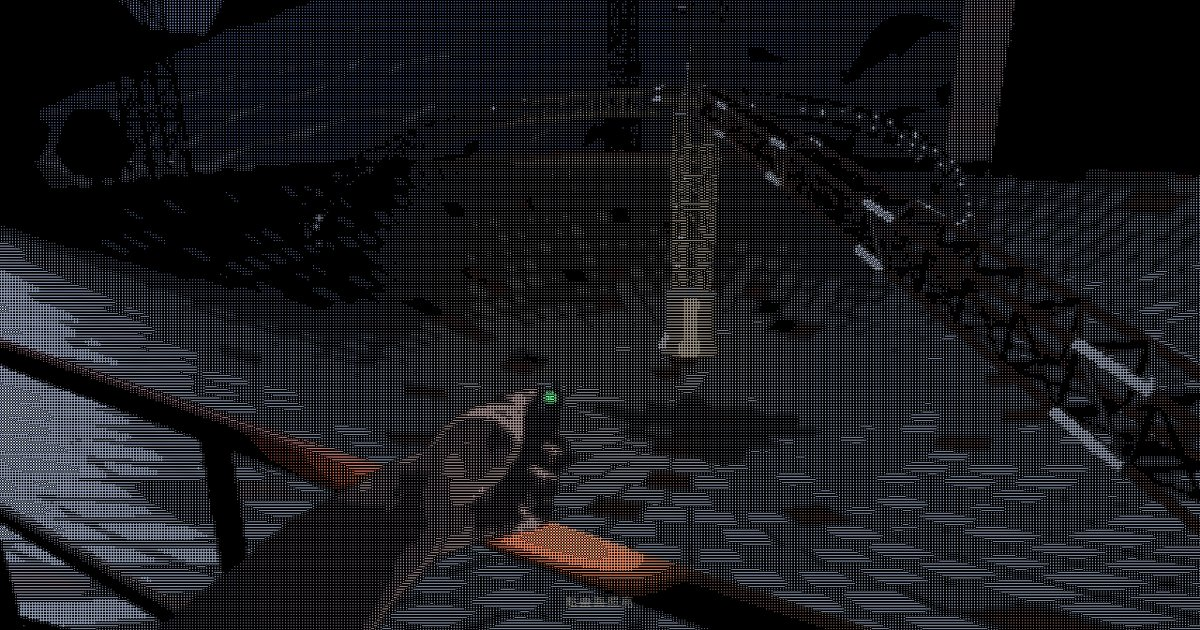
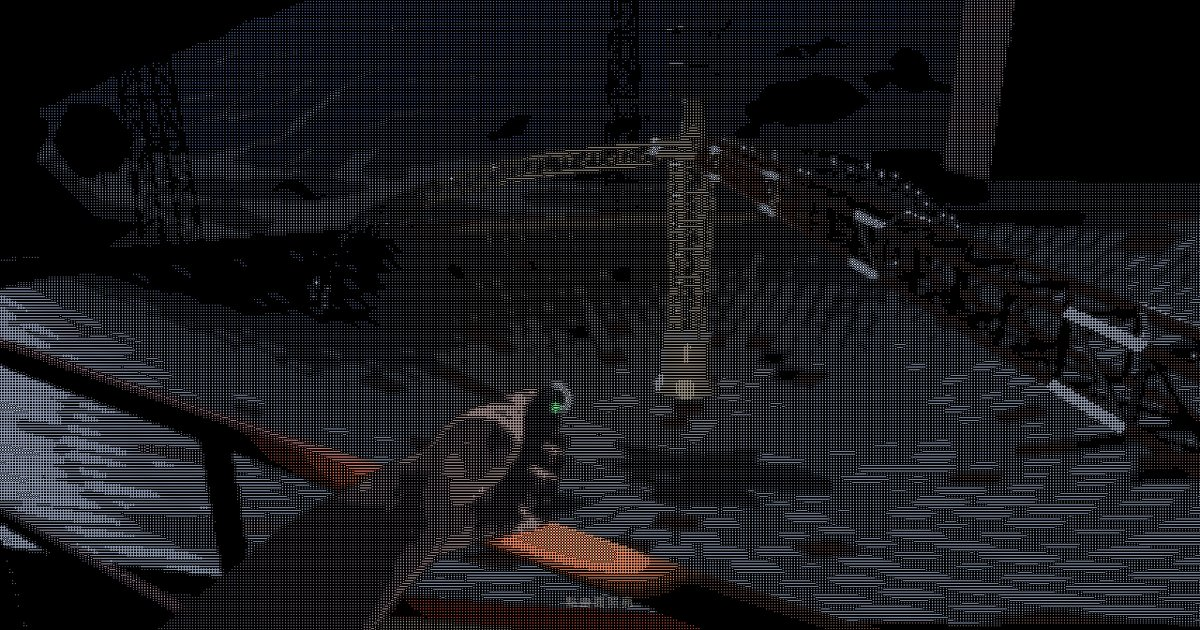
feat(ascii-cave): 換成第七版（手電筒放平、碟身傾斜、補走道下方地面）
- 手縮小、手電筒朝前、拇指壓在筒身上
- 雷達碟身往左前傾 6°，吊塔垂直；走道下方不再露出黑色背景

diff --git a/ascii-cave/index.html b/ascii-cave/index.html
@@ -502,13 +502,23 @@ async function start() {
   const DISH_CY = RIM_Y + Math.sqrt(DISH.R ** 2 - DISH.r ** 2);
   const dishY = (r) => DISH_CY - Math.sqrt(DISH.R ** 2 - Math.min(r, DISH.r) ** 2);
   const smooth = THREE.MathUtils.smoothstep;
+  // the dish leans a few degrees down toward the far left as seen from the walkway (IMG_7383-7385: the far rim lower on
+  // the left, the hanging tower plumb). Bowl, rim and the three legs tip about the point where the walkway passes the
+  // rim, so nothing moves there; the tower only shifts with the joint it hangs from; the ground round the rim follows
+  const TILT_DEG = 6, TILT_P = new THREE.Vector3(DISH.x - DISH.r, RIM_Y, DISH.z), TILT_D = new THREE.Vector3(1, 0, -1).normalize();
+  const TILT = new THREE.Matrix4().makeTranslation(TILT_P.x, TILT_P.y, TILT_P.z)
+    .multiply(new THREE.Matrix4().makeRotationAxis(new THREE.Vector3(TILT_D.z, 0, -TILT_D.x), TILT_DEG * DEG)) // up x TILT_D
+    .multiply(new THREE.Matrix4().makeTranslation(-TILT_P.x, -TILT_P.y, -TILT_P.z));
+  const tiltDrop = (x, z) => Math.sin(TILT_DEG * DEG) * (TILT_D.x * (x - TILT_P.x) + TILT_D.z * (z - TILT_P.z));
   function groundY(x, z) {
     const n1 = simplex.noise(x / 22, z / 22), n2 = simplex.noise(x / 7 + 30, z / 7);
     // the low ground the walkway crosses: a valley under it, rising on the left, a level apron round the dish
     let h = -8 + Math.max(0, -x - 4) * 0.32 + Math.max(0, Math.abs(x) - 90) * 0.4 + n1 * 2.2 + n2 * 0.5;
     const r = Math.hypot(x - DISH.x, z - DISH.z);
-    h += (RIM_Y - 0.25 - h) * (1 - smooth(r, DISH.r + 5, DISH.r + 22));
-    if (r < DISH.r + 0.6) h = Math.min(h, dishY(r) - 0.5);
+    const drop = tiltDrop(x, z);
+    h += (RIM_Y - drop - 0.25 - h) * (1 - smooth(r, DISH.r + 5, DISH.r + 22));
+    if (r < DISH.r + 0.6) h = Math.min(h, dishY(r) - drop - 0.5);
+    if (Math.abs(x) < 4.6 && z < WALK_A + 1 && z > WALK_B - 1) h = Math.min(h, deckY(z) - 0.3); // never through the deck
     // open, nearly level ground in front of each portal, at track height
     const open = Math.max(smooth(z, WALK_A - 6, WALK_A + 2), smooth(-z, -WALK_B - 6, -WALK_B + 2)) * (1 - smooth(Math.abs(x), 22, 40));
     h += (-0.15 + n2 * 0.08 - h) * open;
@@ -516,9 +526,10 @@ async function start() {
     const mound = Math.max(smooth(z, 0, 5), smooth(-z, WALK_L, WALK_L + 5)) * (1 - smooth(Math.abs(x), 8, 24));
     return h + Math.max(0, 7.5 + n1 * 1.5 - h) * mound;
   }
-  // no ground along the bridge (a dark drop under the deck) nor just behind the portal faces, where the
-  // mound's first slope would cut into the tunnel mouth (terrain rows fall exactly on both faces)
-  const inCorridor = (x, z) => Math.abs(x) < 4.6 && ((z < WALK_A + 1 && z > WALK_B - 1) || (z > 0 && z < 5) || (z < -WALK_L && z > -WALK_L - 5));
+  // no ground just behind the portal faces, where the mound's first slope would cut into the tunnel mouth (terrain
+  // rows fall exactly on both faces). Under the bridge the valley floor stays: without it, looking down past the deck's
+  // edge showed a black band of empty background between the railing and the deck
+  const inCorridor = (x, z) => Math.abs(x) < 4.6 && ((z > 0 && z < 5) || (z < -WALK_L && z > -WALK_L - 5));
   const outside = new THREE.Group(), Y_AXIS = new THREE.Vector3(0, 1, 0);
   outScene.add(outside);
   outScene.fog = new THREE.FogExp2(0x0d1426, 0.0045);
@@ -565,8 +576,8 @@ async function start() {
       new THREE.MeshStandardMaterial({ map: tex, side: THREE.BackSide, roughness: 0.5, metalness: 0.2 }));
     dish.position.set(DISH.x, DISH_CY, DISH.z);
     const concrete = new THREE.MeshStandardMaterial({ color: 0xb8b4aa, roughness: 0.9, side: THREE.DoubleSide });
-    const rim = new THREE.Mesh(new THREE.CylinderGeometry(DISH.r + 0.6, DISH.r + 0.9, 1.4, 120, 1, true), concrete);
-    rim.position.set(DISH.x, RIM_Y + 0.15, DISH.z);
+    const rim = new THREE.Mesh(new THREE.CylinderGeometry(DISH.r + 0.6, DISH.r + 1.1, 2.4, 120, 1, true), concrete);
+    rim.position.set(DISH.x, RIM_Y - 0.35, DISH.z); // a skirt below ground, so the side the tilt lifts shows no gap
     const band = new THREE.Mesh(new THREE.CylinderGeometry(DISH.r + 0.62, DISH.r + 0.62, 0.22, 120, 1, true),
       new THREE.MeshStandardMaterial({ color: 0x8a2a1c, roughness: 0.8, side: THREE.DoubleSide }));
     band.position.set(DISH.x, RIM_Y + 0.8, DISH.z);
@@ -578,8 +589,10 @@ async function start() {
       sp[i] = DISH.x - 3.5 + Math.cos(a) * rr; sp[i + 2] = DISH.z + 2 + Math.sin(a) * rr * 1.3;
       sp[i + 1] = dishY(Math.hypot(sp[i] - DISH.x, sp[i + 2] - DISH.z)) + 0.04;
     }
-    outside.add(dish, rim, band, new THREE.Mesh(stain, new THREE.MeshStandardMaterial({
-      color: 0x262624, roughness: 0.9, transparent: true, opacity: 0.8, polygonOffset: true, polygonOffsetFactor: -2 })));
+    const mirror = [dish, rim, band, new THREE.Mesh(stain, new THREE.MeshStandardMaterial({
+      color: 0x262624, roughness: 0.9, transparent: true, opacity: 0.8, polygonOffset: true, polygonOffsetFactor: -2 }))];
+    for (const m of mirror) m.applyMatrix4(TILT);
+    outside.add(...mirror);
   }
   { // steelwork: white centre tower and feed cabin, rust arch over the bowl, two rust towers, the walkway itself
     const white = [], rust = [], rails = [], dark = [], q = new THREE.Quaternion(), d = new THREE.Vector3();
@@ -619,6 +632,7 @@ async function start() {
         }
       }
     };
+    const tower0 = white.length;
     ring(white, joint, 1.7, 12, 0.35); ring(white, joint + 0.45, 1.7, 12, 0.25);                     // the ring joint
     white.push(new THREE.CylinderGeometry(0.45, 0.6, 2.2, 12).translate(DISH.x, joint + 1.1, DISH.z));  // neck
     column(white, joint + 2.2, joint + 10, 1.0, 1.6, 1.3, 0.12);                                      // body
@@ -629,6 +643,8 @@ async function start() {
     column(white, drumTop, joint, 0.75, 0.95, 1.25, 0.11);                                            // lower section
     white.push(new THREE.CylinderGeometry(1.1, 1.1, 1.8, 18).translate(DISH.x, drumTop - 0.9, DISH.z),   // drum
       new THREE.CylinderGeometry(1.1, 1.45, 0.7, 18).translate(DISH.x, drumTop - 2.15, DISH.z));         // its flared foot
+    const shift = V(DISH.x, joint, DISH.z).applyMatrix4(TILT).sub(V(DISH.x, joint, DISH.z));          // plumb, moved with the joint
+    for (const g of white.slice(tower0)) g.translate(shift.x, shift.y, shift.z);
     // the rusty leg lands on the rim on the walkway's side, where it comes in toward you along your line of sight as you
     // walk up and look across at the tower (as in the photos); the white legs at +-120 deg from it
     const aRust = Math.PI - 0.62;
@@ -647,6 +663,7 @@ async function start() {
     };
     // bowed white legs: out from the joint, then down onto the bowl. A broad quarter ellipse, about 2.7 times as wide as
     // it drops, the curve of the earlier rim-to-rim arches (27 m out for a 10 m rise); the feet land 22 m out
+    const legs0 = white.length, rust0 = rust.length;
     for (const a of [aRust + TAU / 3, aRust - TAU / 3]) {
       const hf = 22, yf = dishY(hf);
       truss(white, (u) => { const w = u * Math.PI / 2; return at(1.7 + (hf - 1.7) * Math.sin(w), a, joint - (joint - yf) * (1 - Math.cos(w))); }, 22, 0.42, 0.13);
@@ -654,6 +671,7 @@ async function start() {
     const foot = at(DISH.r + 0.2, aRust, RIM_Y + 0.4), top = at(1.7, aRust, joint);
     truss(rust, (u) => top.clone().lerp(foot, u), 22, 0.45, 0.13);                // straight rusty truss to the rim
     for (let i = 3; i < 22; i += 5) truss(white, (u) => top.clone().lerp(foot, (i + u) / 22), 1, 0.47, 0.13); // flaking white patches
+    for (const g of [...white.slice(legs0), ...rust.slice(rust0)]) g.applyMatrix4(TILT);             // the legs tip with the bowl
     for (const [x, z] of [[DISH.x + 34, DISH.z - 22], [DISH.x - 2, DISH.z - 36]]) {
       lattice(rust, x, z, groundY(x, z) - 0.5, 32, 2.6, 1.2, 2.6, 0.16);
     }
@@ -833,7 +851,7 @@ async function start() {
   // darkened and cooled for the tunnel, and outlined; the torch head is painted on. tools/trace_hand.py makes the PNG,
   // transparent everywhere outside the hand. It sits on a plane in front of the camera, in its own scene, so the
   // tunnel never hides it. Coordinates are the photo's pixels (3024 x 4032); the forearm runs on past its lower-left corner.
-  const HAND = { X0: -700, Y0: 2380, X1: 1700, Y1: 4600, FIST: [1400, 2760], FIST_W: 270, HEAD: [1495, 2450] };
+  const HAND = { X0: -700, Y0: 2380, X1: 1700, Y1: 4600, FIST: [1400, 2760], FIST_W: 270, HEAD: [1516, 2500] };
   const handTex = await new THREE.TextureLoader().loadAsync('assets/hand/hand.png').catch(() => null); // none from file://
   if (handTex) handTex.colorSpace = THREE.SRGBColorSpace;
   const hand = new THREE.Group(), headLocal = new THREE.Vector3();

diff --git a/CHANGELOG.md b/CHANGELOG.md
@@ -1,5 +1,8 @@
 # Changelog
 
+## 2026-11-08（第七版）
+- `ascii-cave/` 換成第七版（原始碼 repo `5f2005e`）：手縮回畫面高的一成左右，手電筒放平朝前、拇指壓在筒身上（`assets/hand/hand.png` 換新）；雷達碟身往左前傾 6°，吊塔維持垂直；走道下方補上谷地，往下看不再露出黑色背景。預覽圖重截。
+
 ## 2026-11-08（第六版）
 - `ascii-cave/` 換成第六版（原始碼 repo `8a5fbb4`）：手改成照實拍照片去背、壓成幾階色調的圖（`assets/hand/hand.png`），不再用 3D 手臂模型，`assets/models/arms.glb` 刪掉；鏡面中央兩隻白色拱腳改回第四版那種寬而緩的弧度。預覽圖換成走道上帶新手的畫面。
 
